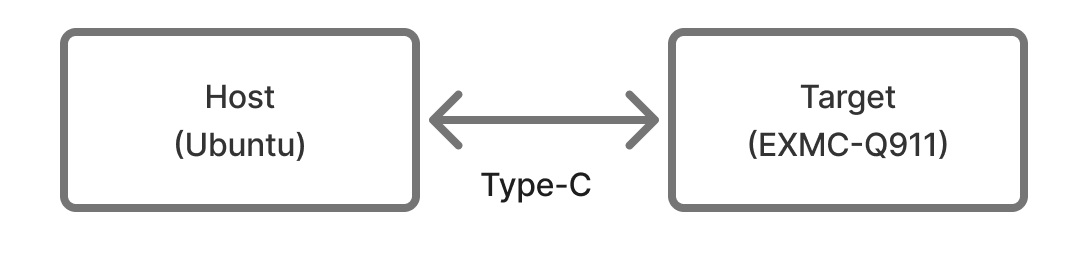
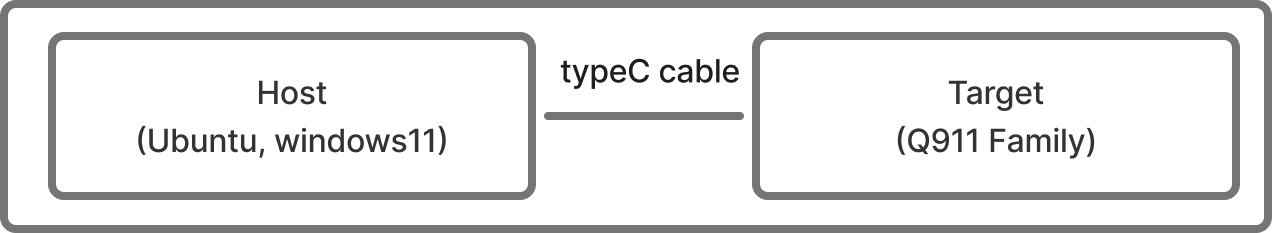
docs: rewrite flash-image guide as self-contained procedure

diff --git a/tutorials/starting-guides/flash-image/README.md b/tutorials/starting-guides/flash-image/README.md
@@ -2,20 +2,54 @@
 
 This guide provides instructions for flashing or updating the system image on the Q911 platforms, including EXEC-Q911 and APEX-A100.
 
-If you need a new flash package, please contact us first. We mainly provide Yocto Linux images, built from [meta-iQ__manifest](https://github.com/InnoIPA/meta-iQ__manifest). If you want to run Ubuntu and keep all IO functions working correctly, please contact us to obtain a validated Innodisk-ported image — see [iQ-ubuntu__manifest](https://github.com/InnoIPA/iQ-ubuntu__manifest) for the available versions.
+Use this guide when you need to re-flash the system image, switch OS, or recover a corrupted system. To update firmware or OS on a deployed device without re-flashing, see the [Qualcomm OTA Guide](../ota/README.md) instead.
 
-The steps below ensure that your flashing process completes successfully, as the hardware must be switched to the correct mode before flashing.
+To obtain an image package, please contact Innodisk sales. We mainly provide Yocto Linux images, built from [meta-iQ__manifest](https://github.com/InnoIPA/meta-iQ__manifest). If you want to run Ubuntu and keep all IO functions working correctly, please contact Innodisk sales to obtain a validated Innodisk-ported image — see [iQ-ubuntu__manifest](https://github.com/InnoIPA/iQ-ubuntu__manifest) for the available versions.
 
+> **Note**
+> - Yocto Linux and Ubuntu images are flashed with exactly the same procedure below.
+> - Boards ship with the initial provisioning (UFS provisioning / SAIL) already completed at the factory. You can flash the image directly — the one-time provisioning steps ([*Provision UFS*](https://docs.qualcomm.com/doc/80-70030-254/topic/flash_images.html#provision-ufs-one-time-prerequisite) / [*Flash SAIL*](https://docs.qualcomm.com/doc/80-70030-254/topic/flash_images.html#flash-sail-one-time-prerequisite)) described in Qualcomm's documentation are **not** needed.
 
-## Host and Target Setup
-
-When you need to update the BSP or recover a corrupted system, please first check the prerequisites in [Qualcomm’s instructions for flashing software](https://docs.qualcomm.com/doc/80-90441-252/topic/Integrate-and-flash-software.html?product=1601111740076074&facet=Ubuntu%20quickstart#prerequisites). We usually use Ubuntu as the host system, so please make sure the host environment is ready before you start.
-
-For the initial setup on an Ubuntu host, please follow Steps 1-2 in [Flash Dragonwing IQ-9075 EVK Integrated Image on an Ubuntu Host](https://docs.qualcomm.com/doc/80-90441-252/topic/Integrate-and-flash-software.html?product=1601111740076074&facet=Ubuntu%20quickstart#panel-0-0-0tab$flash-dragonwing-iq-9075-evk-integrated-image-on-ubuntu-host).
+This guide follows the official Qualcomm flashing procedure ([Qualcomm Linux Build Guide → Flash software images](https://docs.qualcomm.com/doc/80-70030-254/topic/flash_images.html)), adapted to the Q911 hardware. Each step below links to the corresponding section of that document.
 
 <div align="center">
   <img src="./fig/host_target.png" style="width:75%;">
 </div>
+
+## Requirements
+
+- **HW**: x86 PC as the host.
+- **OS**: Ubuntu 20.04 or later (recommended). To flash from a Windows 11 host instead, see [Flashing from a Windows Host](./windows.md).
+- **Cable**: USB Type-A to Type-C **data** cable (Type-A → host, Type-C → target). Required — flashing is not possible without it.
+- **SW**: the `qdl` tool (see [Host Setup](#host-setup-one-time)).
+
+## Host Setup (one-time)
+
+You only need to do this section once. If your host is already set up, jump straight to [Step 1](#step-1-prepare-the-board-for-flashing).
+
+**Install the `qdl` tool**
+
+Flashing uses the [qdl](https://github.com/linux-msm/qdl) tool. Build it by following the [Build → Linux instructions in the qdl README](https://github.com/linux-msm/qdl#linux), which cover the required dependencies; prebuilt releases are also available on the same page.
+
+> **Reference**: Qualcomm [Flash software images → *Flash the software → Using QDL*](https://docs.qualcomm.com/doc/80-70030-254/topic/flash_images.html#using-qdl)
+
+**Set up udev rules**
+
+Without this rule, running `qdl` as a regular user fails with a permission error.
+
+Create `/etc/udev/rules.d/51-qcom-usb.rules` with the following content:
+
+```text
+SUBSYSTEMS=="usb", ATTRS{idVendor}=="05c6", ATTRS{idProduct}=="9008", MODE="0666", GROUP="plugdev"
+```
+
+Then restart udev and re-plug the USB cable if it is already connected:
+
+```bash
+sudo systemctl restart udev
+```
+
+> **Reference**: Qualcomm [Flash software images → *Update udev rules (one-time prerequisite)*](https://docs.qualcomm.com/doc/80-70030-254/topic/flash_images.html#update-udev-rules-one-time-prerequisite)
 
 ## Step 1: Prepare the Board for Flashing
 
@@ -25,7 +59,7 @@ Set the jumper on the bottom side of the board to `EDL mode`.
     <img src="../q911/fig/jumper_mode_edl.png" style="width:50%;">
   </p>
 
-Please also confirm that all boot mode DIP switches are set to `ON`, as shown below, so the system can boot from `UFS`.
+Please also confirm that all boot mode DIP switches are set to `ON`, as shown below, so the system can boot from `UFS`. The DIP switches stay in this position for the entire flashing process — only the jumper changes.
 
   <p align="center">
     <img src="../q911/fig/boot_mode_ufs.png" style="width:50%;">
@@ -33,7 +67,7 @@ Please also confirm that all boot mode DIP switches are set to `ON`, as shown be
 
 ## Step 2: Connect the Target
 
-Connect the USB Type-C cable to the port labeled `Flash / ADB` on the target device.
+Connect the USB cable between the host (Type-A end) and the port labeled `Flash / ADB` on the target device (Type-C end).
 
   <div align="center">
     <table>
@@ -52,10 +86,11 @@ Connect the USB Type-C cable to the port labeled `Flash / ADB` on the target dev
     </table>
   </div>
 
-## Step 3: Power On
+> **Reference**: Qualcomm [Flash software images → *Force the device into EDL mode → Manual*](https://docs.qualcomm.com/doc/80-70030-254/topic/flash_images.html#manual) — connecting the Type-C cable to the host is part of the manual EDL entry procedure.
 
-After the board is set to `EDL mode` and all boot mode DIP switches are confirmed to be `ON`, connect the power supply and press the power button.
+## Step 3: Power On and Verify EDL Mode
 
+Connect the power supply and press the power button.
 
   <div align="center">
     <table>
@@ -74,10 +109,27 @@ After the board is set to `EDL mode` and all boot mode DIP switches are confirme
     </table>
   </div>
 
+Before flashing, confirm the device has entered EDL mode:
+
+```bash
+lsusb
+```
+
+You should see one device like this:
+
+```text
+Bus 002 Device 014: ID 05c6:9008 Qualcomm, Inc. Gobi Wireless Modem (QDL mode)
+```
+
+> `QDL mode` and `EDL mode` are the same thing — it is just a naming difference on Qualcomm's side.
+
+If the device does not show up, see [Troubleshooting](#troubleshooting).
+
+> **Reference**: Qualcomm [Flash software images → *Force the device into EDL mode*](https://docs.qualcomm.com/doc/80-70030-254/topic/flash_images.html#force-the-device-into-edl-mode) — the `lsusb` check for `05c6:9008` is the EDL verification step described there.
 
 ## Step 4: Flash the Image
 
-1. After verifying all prerequisites, extract the image package provided by us on the host.
+1. Extract the image package provided by Innodisk on the host, and enter the folder.
 
     ```bash
     unzip image.zip
@@ -95,35 +147,66 @@ After the board is set to `EDL mode` and all boot mode DIP switches are confirme
     ├── el2-dtb.bin
     ├── gpt_backup0.bin
     ├── gpt_backup1.bin
+    ├── md5sum.txt
     .
     .
     .
     ```
-2. Use the exact flashing command from the official Qualcomm documentation. Follow Step 3 in [Flash Dragonwing IQ-9075 EVK Integrated Image on an Ubuntu Host](https://docs.qualcomm.com/doc/80-90441-252/topic/Integrate-and-flash-software.html?product=1601111740076074&facet=Ubuntu%20quickstart#panel-0-0-0tab$flash-dragonwing-iq-9075-evk-integrated-image-on-ubuntu-host).
+
+2. Verify the package integrity with the bundled `md5sum.txt`. Every file should report `OK` before you continue.
+
+    ```bash
+    md5sum -c md5sum.txt
+    ```
+
+3. Flash the image. Run inside the image folder — the whole process takes a few minutes.
+
+    ```bash
+    qdl --storage ufs --include ./ \
+      ./prog_firehose_ddr.elf ./rawprogram*.xml ./patch*.xml
+    ```
 
 If the flashing process completes successfully, you will see output similar to the following.
-    <p align="center">
+
+  <p align="center">
     <img src="./fig/flash-image.png" style="width:50%;">
-    </p>
+  </p>
 
-
+> **Reference**: Qualcomm [Flash software images → *Flash the software → Using QDL*](https://docs.qualcomm.com/doc/80-70030-254/topic/flash_images.html#using-qdl) — same `qdl --storage ufs prog_firehose_ddr.elf rawprogram*.xml patch*.xml` command; the Innodisk package already bundles all required files, so no extra image-path setup is needed.
 
 ## Step 5: Switch Back to Normal Boot Mode
 
-After the flashing process is complete, power off the device and set the jumper on the bottom side of the board to `Normal mode`.
+Power off the device and set the jumper on the bottom side of the board back to `Normal mode`. The DIP switches need no change — they stay `ON` the whole time.
 
   <p align="center">
     <img src="../q911/fig/jumper_mode_normal.png" style="width:50%;">
   </p>
 
-Please also confirm that all boot mode DIP switches are set to `ON`, as shown below, so the system boots from `UFS`.
+> **Reference**: Qualcomm [Flash software images → *Force the device into EDL mode → Manual*](https://docs.qualcomm.com/doc/80-70030-254/topic/flash_images.html#manual) — corresponds to Qualcomm's note to disable the EDL switch after flashing completes; on the Q911/A100 this means moving the jumper back to `Normal mode`.
 
-  <p align="center">
-    <img src="../q911/fig/boot_mode_ufs.png" style="width:50%;">
-  </p>
+## Step 6: Boot and Confirm
 
-## Step 6: Boot into the System
+Connect a DisplayPort monitor, power on the device, and let it boot. Seeing the system desktop on the screen means the image was flashed successfully.
 
-After the board is back in `Normal mode`, power on the device and boot into the system.
+From here, head back to the [Q911 Quick Start Guide → Interact with the System](../q911/README.md#interact-with-the-system) to start using the device (DisplayPort, SSH, ADB, UART).
 
-After the system boots, see the [Q911 Quick Start Guide → Interact with the System](../q911/README.md#interact-with-the-system) for the supported interaction methods (DisplayPort, SSH, ADB, UART).
+## Troubleshooting
+
+**`lsusb` shows no `05c6:9008` device**
+
+- Confirm the jumper is set to `EDL mode` (Step 1) and the device is powered on.
+- Confirm the cable is connected to the `Flash / ADB` port and is a data-capable cable, not a charge-only one.
+- Try another USB port on the host, then power-cycle the device.
+
+**`qdl` fails with a permission error**
+
+- The udev rule is missing or not loaded. Set it up as described in [Host Setup](#host-setup-one-time), restart udev, then unplug and re-plug the USB cable.
+
+**Flashing fails midway or reports a Sahara protocol error**
+
+- Unplug the power cable, plug it back in, and power on again — the board stays in EDL mode as long as the jumper is unchanged.
+- Verify the device is detected again (Step 3), then re-run the flashing command.
+
+## Reference
+
+- [Qualcomm: Integrate and flash software (Dragonwing IQ-9075 EVK)](https://docs.qualcomm.com/doc/80-90441-252/topic/Integrate-and-flash-software.html?product=1601111740076074&facet=Ubuntu%20quickstart)

diff --git a/tutorials/starting-guides/flash-image/windows.md b/tutorials/starting-guides/flash-image/windows.md
@@ -1,0 +1,70 @@
+# Flashing from a Windows Host
+
+This page covers the Windows-specific parts of the [Q911 Image Flashing Guide](./README.md). The board-side steps — EDL jumper, DIP switches, cabling, and power-on — are exactly the same, so follow the main guide for those and come back here for the host-side setup, the EDL check, and the flashing command.
+
+We recommend an Ubuntu host for the smoothest experience, but flashing from Windows 11 with `qdl.exe` is verified to work on the Q911 platforms.
+
+> Flashing with Qualcomm's xPCATApp GUI is also possible — we used it in our [hands-on workshop](https://innoipa.github.io/inno_qcom_hands_on_workshop/flashing.html) — but this guide does not cover it.
+
+## Requirements
+
+- **HW**: x86 PC as the host.
+- **OS**: Windows 11.
+- **Cable**: USB Type-A to Type-C **data** cable (Type-A → host, Type-C → target). Required — flashing is not possible without it.
+- **SW**: the `qdl` tool and the Qualcomm USB Driver, QUD (see below).
+
+## Host Setup (one-time)
+
+**Install the `qdl` tool**
+
+Build `qdl.exe` by following the [Build → Windows instructions in the qdl README](https://github.com/linux-msm/qdl#windows); prebuilt releases are also available on the same page.
+
+**Install the Qualcomm USB Driver (QUD)**
+
+Before flashing from the command line, install the Qualcomm USB Driver. Download it from the [Qualcomm Software Center](https://softwarecenter.qualcomm.com/) (a Qualcomm account is required to sign in): open the **Tools** tab and search for `Qualcomm USB Driver`.
+
+<p align="center">
+  <img src="./fig/qualcomm_usb_driver.png" style="width:75%;">
+</p>
+
+## Verify EDL Mode
+
+After powering on the board in EDL mode ([main guide, Steps 1–3](./README.md#step-1-prepare-the-board-for-flashing)), open **Device Manager** and confirm the device appears as `Qualcomm HS-USB QDLoader 9008` under Ports.
+
+If the device shows up with a warning icon or as an unknown device, the QUD driver is not installed — see [Host Setup](#host-setup-one-time) above.
+
+## Flash the Image
+
+1. Extract the image package provided by Innodisk and verify its integrity with the bundled `md5sum.txt`. Run the following in PowerShell inside the image folder — every file should report `OK` before you continue.
+
+    ```powershell
+    Get-Content md5sum.txt | ForEach-Object {
+        $parts = $_ -split "\s+", 2
+        $expected = $parts[0]
+        $file = $parts[1].TrimStart("*")
+        $actual = (Get-FileHash -Algorithm MD5 -Path $file).Hash
+        if ($actual -eq $expected) { "OK: $file" } else { "FAILED: $file" }
+    }
+    ```
+
+2. Flash the image. Run PowerShell from the folder containing `qdl.exe`, replacing `<IMAGE-FOLDER>` with the path to your extracted image folder. The whole process takes a few minutes.
+
+    ```powershell
+    .\qdl.exe --storage ufs `
+      --include <IMAGE-FOLDER> `
+      <IMAGE-FOLDER>\prog_firehose_ddr.elf `
+      <IMAGE-FOLDER>\rawprogram0.xml `
+      <IMAGE-FOLDER>\rawprogram1.xml `
+      <IMAGE-FOLDER>\rawprogram2.xml `
+      <IMAGE-FOLDER>\rawprogram3.xml `
+      <IMAGE-FOLDER>\rawprogram4.xml `
+      <IMAGE-FOLDER>\patch0.xml `
+      <IMAGE-FOLDER>\patch1.xml `
+      <IMAGE-FOLDER>\patch2.xml `
+      <IMAGE-FOLDER>\patch3.xml `
+      <IMAGE-FOLDER>\patch4.xml
+    ```
+
+    > PowerShell does not expand the `*` wildcard for `qdl`, so every `rawprogram` and `patch` file must be listed explicitly. List all of the `rawprogram*.xml` and `patch*.xml` files that your image package contains.
+
+After flashing completes, continue with [Step 5 in the main guide](./README.md#step-5-switch-back-to-normal-boot-mode) to switch back to normal boot mode and boot the system.
